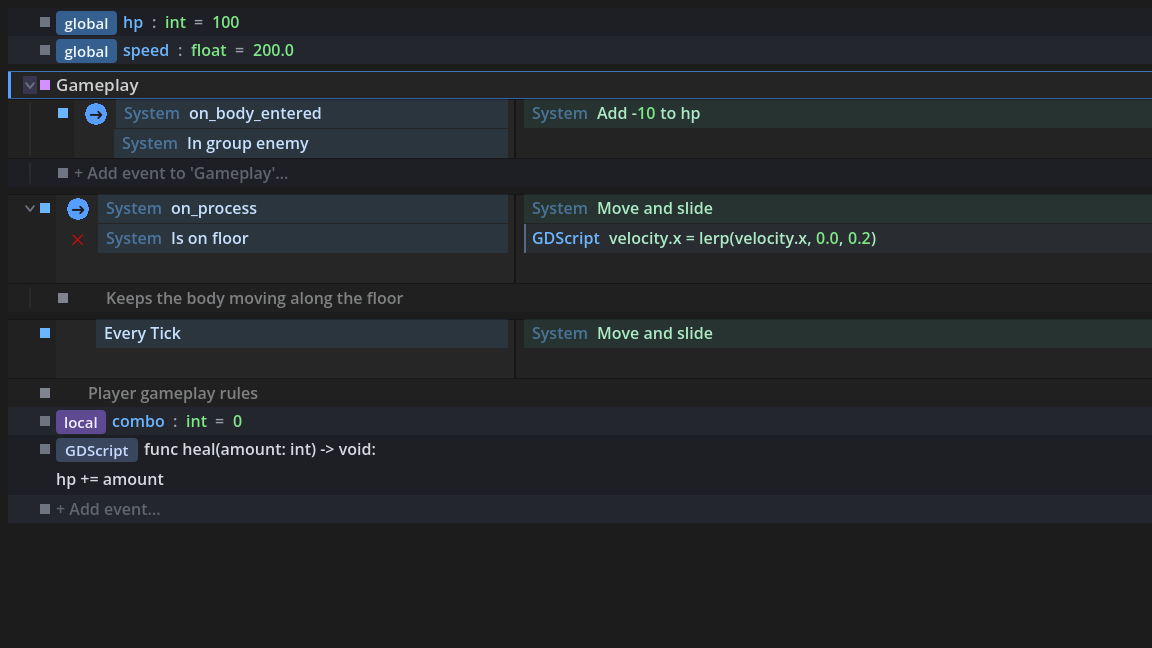
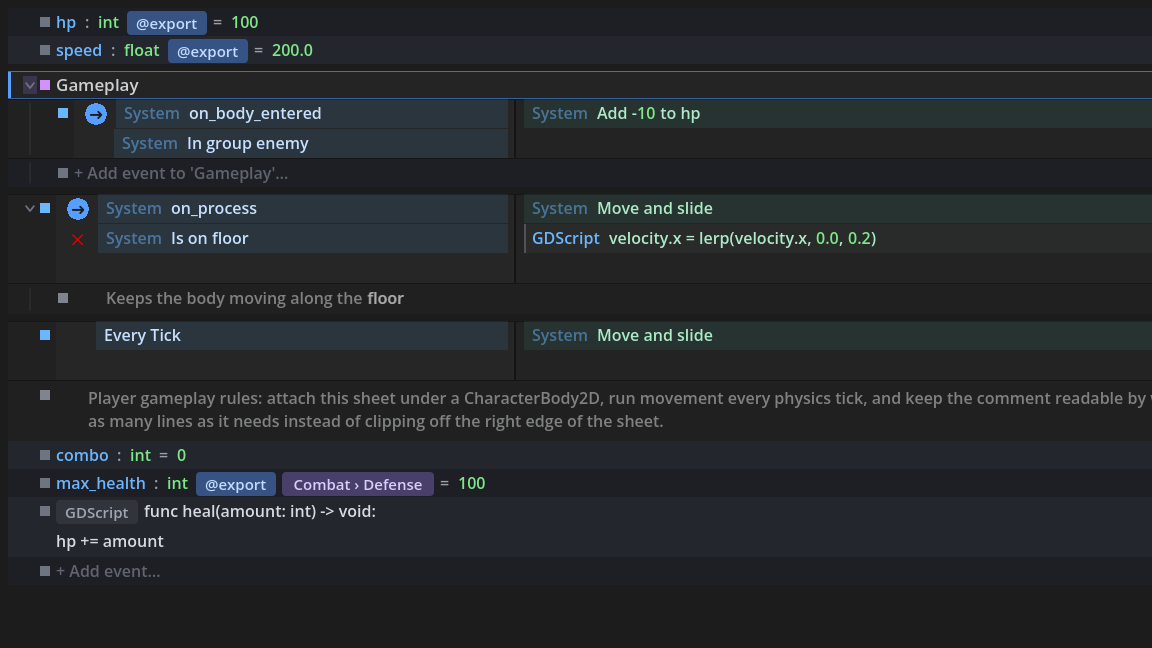
docs: refresh the README preview images to the current editor
Regenerated both hero shots via the render harnesses (tools/render_preview.gd, render_picker_preview.gd):
- editor-event-sheet.png now showcases the features that landed since the old shot (Jun 22): @user badges on
  variables, the "Combat › Defense" Inspector-grouping chip, BBCode in a comment, alongside the existing
  triggers, a negated condition, an inline GDScript block, and the heal() function. Updated the harness sheet
  to export hp, add a grouped exported tree variable, and add BBCode; alt-text refreshed to match.
- editor-ace-picker.png regenerated to the current picker (Favorites/Recent panes, categorized tree, live
  plain-language description panel).

diff --git a/README.md b/README.md
@@ -9,7 +9,7 @@
 
 Godot EventSheets (engine codename *EventForge* — the prefix you'll see on internal class names) brings the event-sheet workflow C3 users love into the Godot editor: a fast visual editor where events read like sentences, and a compiler that turns every sheet into **typed, idiomatic GDScript** — no runtime interpreter, no plugin dependency in your exported game, and **zero performance difference from hand-written code** (a guarded, tested contract).
 
-![The event sheet editor: two-lane condition/action rows, type-annotated variables (with @export badges for Inspector-exposed ones), trigger arrows, an inline GDScript block, and a sheet-built heal() function.](docs/previews/editor-event-sheet.png)
+![The event sheet editor: two-lane condition/action rows, type-annotated variables (with @export badges and a "Combat › Defense" Inspector-grouping chip), trigger arrows, a negated condition, BBCode in a comment, an inline GDScript block, and a sheet-built heal() function.](docs/previews/editor-event-sheet.png)
 
 ![The ACE picker: search actions, conditions, and triggers by their Construct-style vocabulary, with Favorites and Recent panes and the generated GDScript shown live in the description panel.](docs/previews/editor-ace-picker.png)
 